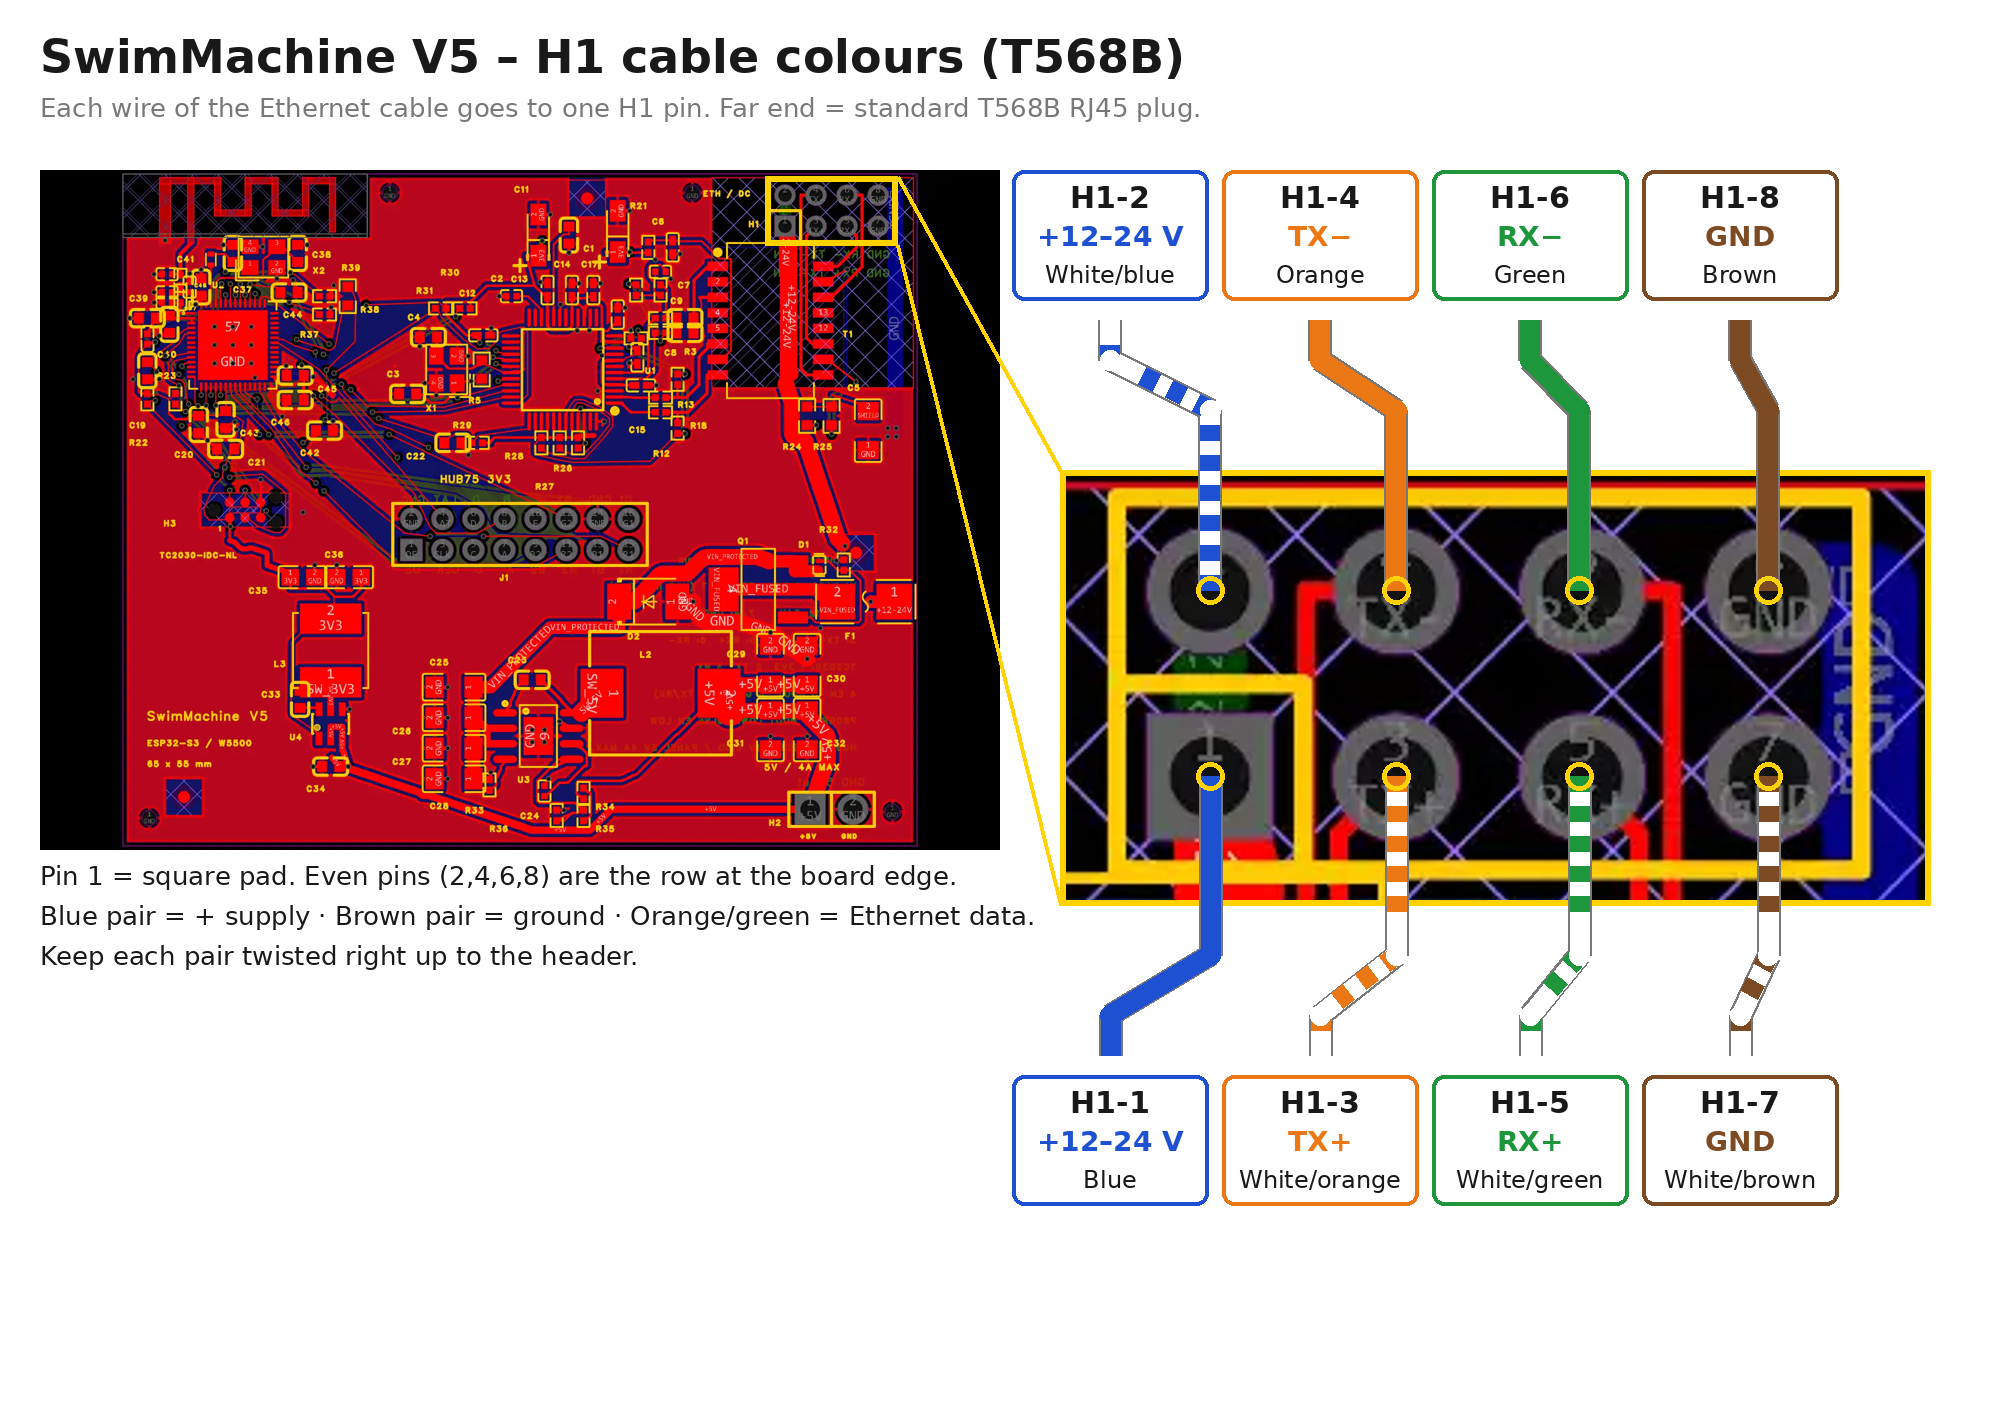
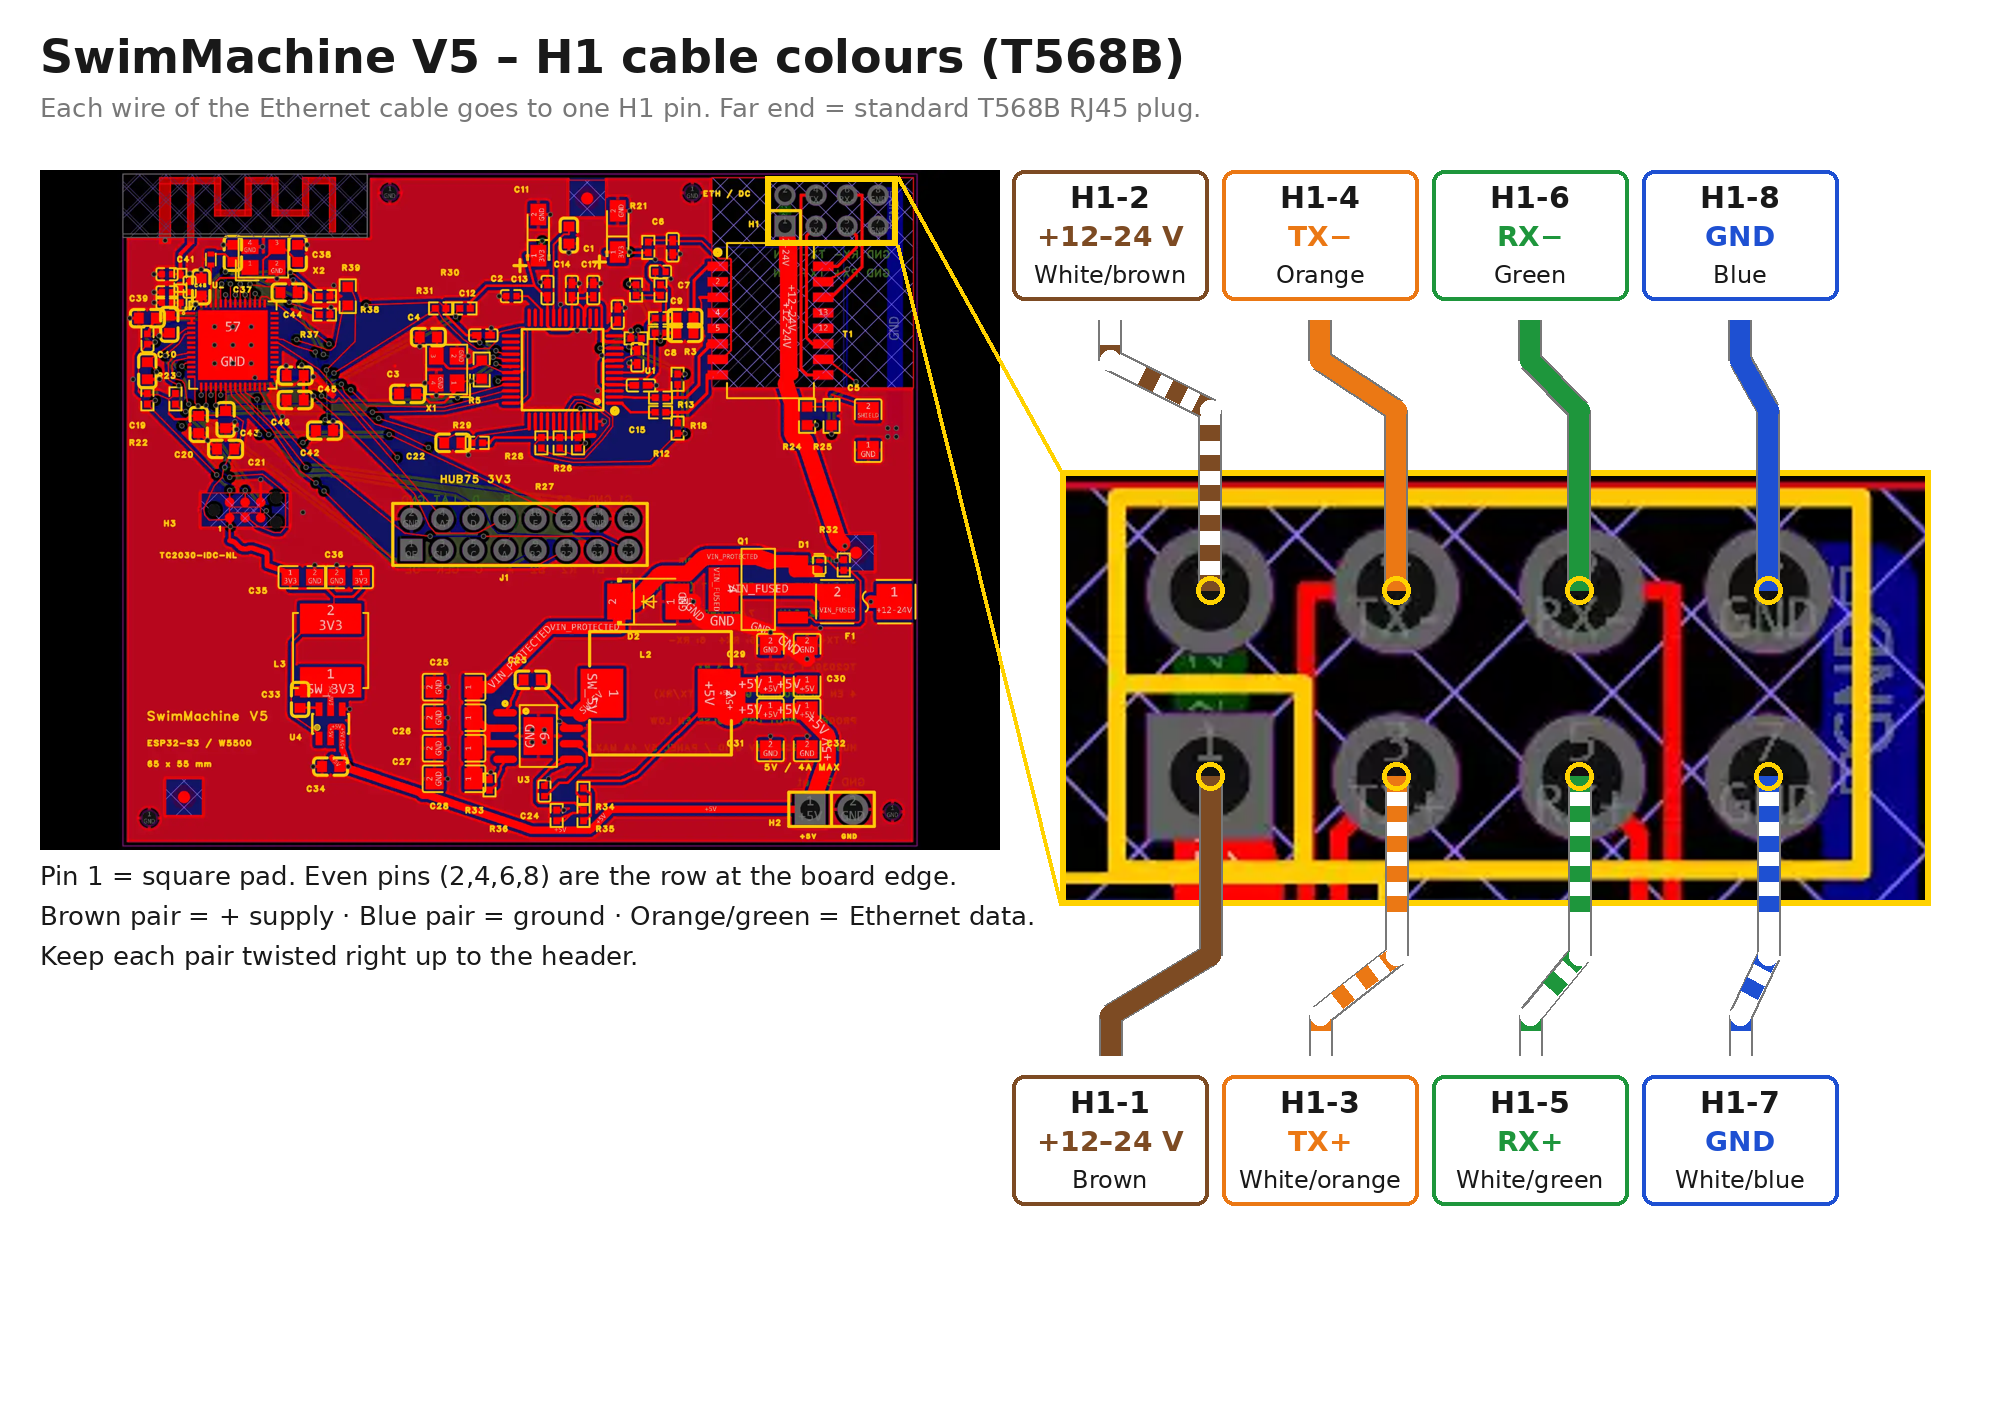
Wiring guide: brown pair is +12-24 V, blue pair is GND
Swap the power pair colours in the H1 table, text, checklist and both
diagrams to match the actual cabling (brown = +, blue = GND), and note
that a standard passive-PoE injector (+ on blue) is reversed for it.

diff --git a/docs/v5-wiring-guide.md b/docs/v5-wiring-guide.md
@@ -20,20 +20,20 @@ One 8-pin header (H1) carries both Ethernet and 12–24 V DC power. The LED pane
 
 ## Ethernet + power cable (H1)
 
-Wire the cable's far end as a standard **T568B** RJ45 plug. At the board end each of the 8 wires goes to its own H1 pin as below. Orange and green carry data, blue carries +12–24 V, and brown is ground. This is the same pair use as a common passive-PoE injector (+ on RJ45 pins 4/5, − on 7/8).
+Wire the cable's far end as a standard **T568B** RJ45 plug. At the board end each of the 8 wires goes to its own H1 pin as below. Orange and green carry data, brown carries +12–24 V, and blue is ground. Note that this is the reverse of the most common passive-PoE injectors (+ on RJ45 pins 4/5, − on 7/8): use an injector or supply that puts + on the brown pair (pins 7/8) and − on the blue pair (pins 4/5).
 
 ![H1 header with each cable wire colour drawn on its pin](images/v5-h1-cable-colours.png)
 
 | H1 pin | Signal | Wire colour (T568B) | RJ45 pin at far end |
 | --- | --- | --- | --- |
-| 1 | +12–24 V | Blue | 4 |
-| 2 | +12–24 V | White/blue | 5 |
+| 1 | +12–24 V | Brown | 8 |
+| 2 | +12–24 V | White/brown | 7 |
 | 3 | TX+ | White/orange | 1 |
 | 4 | TX− | Orange | 2 |
 | 5 | RX+ | White/green | 3 |
 | 6 | RX− | Green | 6 |
-| 7 | GND | White/brown | 7 |
-| 8 | GND | Brown | 8 |
+| 7 | GND | White/blue | 5 |
+| 8 | GND | Blue | 4 |
 
 - **Pin 1** is the square pad, bottom-left of the H1 block. Odd pins (1, 3, 5, 7) are the row nearer the board centre; even pins (2, 4, 6, 8) are the row at the board edge. The silkscreen reads +12–24V · TX+ TX− · RX+ RX− · GND GND.
 - Keep each pair twisted right up to the header, so white/orange stays with orange and white/green with green.
@@ -42,9 +42,9 @@ Wire the cable's far end as a standard **T568B** RJ45 plug. At the board end eac
 
 ## Power setup
 
-Use an isolated, current-limited **24 V DC** supply of at least **36 W (1.5 A)**, fed into the cable's blue (+) and brown (−) pairs with a passive injector. H1 is **not IEEE 802.3af/at PoE**: a PoE switch will not power it, and the board has no PoE detection.
+Use an isolated, current-limited **24 V DC** supply of at least **36 W (1.5 A)**, fed into the cable's brown (+) and blue (−) pairs. H1 is **not IEEE 802.3af/at PoE**: a PoE switch will not power it, and the board has no PoE detection.
 
-![Power wiring: 24 V adapter through a passive PoE injector, or split cable straight to H1](images/v5-power-wiring.png)
+![Power wiring: 24 V adapter through an injector, or split cable straight to H1](images/v5-power-wiring.png)
 
 | Item | Value |
 | --- | --- |
@@ -57,7 +57,7 @@ Use an isolated, current-limited **24 V DC** supply of at least **36 W (1.5 A)**
 
 **Why 24 V rather than 12 V:** the same power at half the current means a quarter of the voltage loss in the cable. At 12 V a full panel pulls about 2.4 A through four thin conductors, which is more than Ethernet cable is meant to carry and drops noticeably over a long run.
 
-**Wiring the supply:** injector DC+ → blue pair (H1 pins 1 and 2), injector DC− → brown pair (H1 pins 7 and 8). The injector's data port goes to your switch. A reversed supply is blocked by Q1 and won't damage the board, but the board stays off.
+**Wiring the supply:** DC+ → brown pair (H1 pins 1 and 2), DC− → blue pair (H1 pins 7 and 8). With an injector, its data port goes to your switch. A standard injector (+ on blue) is reversed for this cable: Q1 blocks it so the board isn't damaged, but the board stays off.
 
 **LED panel power:** run the panel's 5 V cable to the H2 screw terminal (+5V on the left, GND on the right as printed). Don't power the panel from a second supply at the same time.
 
@@ -101,7 +101,7 @@ To enter flashing mode without DTR/RTS wiring: hold pad 5 to GND, briefly short 
 
 - [ ] H1 wired to the colour table above; each pair still twisted to the header
 - [ ] Supply is passive DC (24 V recommended), not a PoE switch port
-- [ ] Supply polarity checked: blue = +, brown = −
+- [ ] Supply polarity checked: brown = +, blue = −
 - [ ] First power-up without the panel: measure 5 V on H2 and 3.3 V on H3 pad 1
 - [ ] Panel 5 V cable on H2 with correct polarity; no second supply connected to the panel
 - [ ] HUB75 orientation checked: J1 pin 15 (R1) reaches the panel's R1
